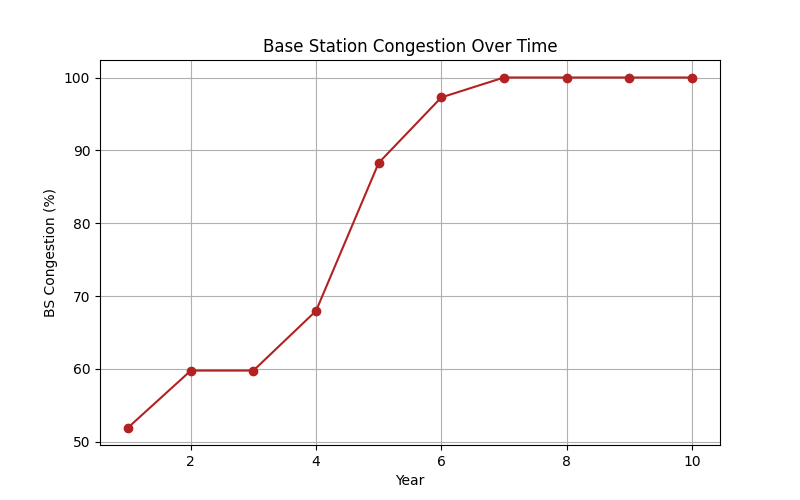
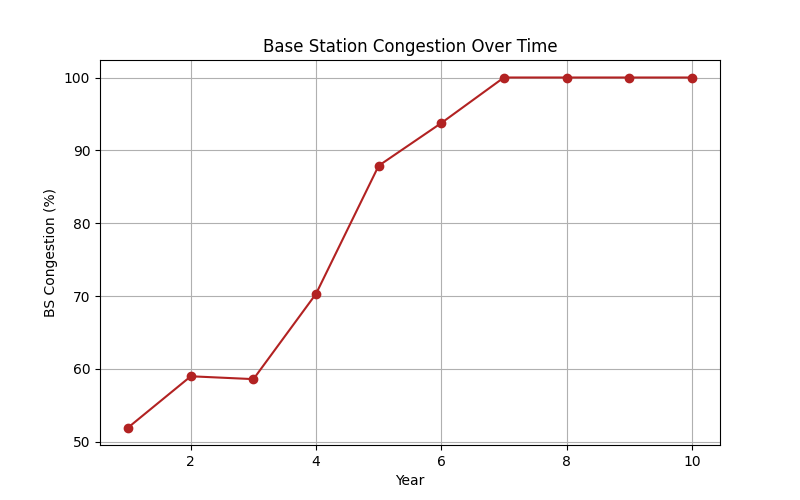
change w space only

diff --git a/networks_space.py b/networks_space.py
@@ -25,6 +25,8 @@ U6_END = 7.2
 
 demand_growth_rate = 1.0
 report_file_path = "report.log"
+OUTPUT_DIR_PATH = "outputs/space"
+os.makedirs(OUTPUT_DIR_PATH, exist_ok=True)
 
 total_num_hs = 0
 total_num_bs = 0
@@ -49,7 +51,7 @@ class UnitType(Enum):
     HS = 1
 
 class NetworkUnit:
-    def __init__(self, id, position, traffic_demand, unit_type, density, limit=None):
+    def __init__(self, id, position, traffic_demand, unit_type, density, region_id, limit=None):
         self.id = id
         self.position = position
         self.traffic_demand = traffic_demand # units = MHz
@@ -60,6 +62,7 @@ class NetworkUnit:
         self.density = density
         self.limit = limit
         self.bandwidth = 0
+        self.region_id = region_id
 
     """
     STEP 4: Updating traffic demand according to population density and time of day
@@ -146,15 +149,6 @@ class NetworkUnit:
                 assert required_bw > self.bandwidth, f"[NetworkUnit {self.id}][make_request]: Unit made a request to DB for more spectrum but required_bw <= self.bandwidth."
                 db_request_queue.put((self.id, required_bw - self.bandwidth)) 
 
-
-
-def total_frequency_allocated(unit):
-    total = 0.0
-    for band in unit.frequency_bands:
-        total += band[1] - band[0]
-    return total
-
-
 #--------------------------------- Debugging Functions ---------------------------------#
 # Calculate Euclidean distance between two units
 def calculate_distance(unit1, unit2):
@@ -163,7 +157,7 @@ def calculate_distance(unit1, unit2):
     return np.sqrt((x2 - x1)**2 + (y2 - y1)**2)
 
 # Make sure output directory exists
-os.makedirs("outputs", exist_ok=True)
+os.makedirs(OUTPUT_DIR_PATH, exist_ok=True)
 
 def plot_units(unit_type_to_plot, filename, db, D_threshold):
     units = [unit for unit in db.database.values() if unit.unit_type == unit_type_to_plot]
@@ -193,9 +187,10 @@ def plot_units(unit_type_to_plot, filename, db, D_threshold):
     plt.grid(True)
 
     # Save the figure
-    plt.savefig(f"outputs/{filename}.png")
+    plt.savefig(f"{OUTPUT_DIR_PATH}/{filename}.png")
     plt.close()
 #-----------------------------------------------------------------------------------#
+
 
 """
 STEP 1: Create dat "map"!
@@ -217,6 +212,8 @@ class Database:
         self.wifi_freq_range = (U6_START, ((U6_END-U6_START)*0.50 + U6_START))
         self.cellular_freq_range = (((U6_END-U6_START)*0.50 + U6_START), U6_END)
         self.request_queue = queue.Queue() 
+        self.region_database = {}
+        # region contains {region_id, pop_density, list of unit_ids, wifi_freq_range, cellular_freq_range}
 
     def update_ratios(self, snapshot):
         """
@@ -257,6 +254,12 @@ class Database:
             wifi_end = U6_START + (U6_END - U6_START) * (config.spectrum_split / 100)
             self.wifi_freq_range = (U6_START, wifi_end)
             self.cellular_freq_range = (wifi_end, U6_END) 
+    
+def assign_initial_ratios(num_hs, num_bs):
+    ratio_hs = num_hs/(num_hs+num_bs)
+    wifi_freq_range = (U6_START, ((U6_END-U6_START)*ratio_hs + U6_START))
+    cellular_freq_range = (((U6_END-U6_START)*ratio_hs + U6_START), U6_END)
+    return wifi_freq_range, cellular_freq_range
 
 """
 STEP 2: Placing BS and HS 
@@ -265,11 +268,13 @@ db = Database()
 unit_id = 0
 block_size = 10
 grid_size = 100
+region_id = 0
 
 for i in range(city_size[0]):
     for j in range(city_size[1]):
         pop_density = population_density[i, j]
         traffic_demand = 0
+
         # setting the number of hs and bs acc to density [TODO]
         if pop_density == 2:
             hs_count = 7  #100x more 
@@ -281,7 +286,9 @@ for i in range(city_size[0]):
             hs_count = 3  #3
             bs_count = 1  #1
 
+        units = set()
         coordinates = set()
+
         for _ in range (hs_count):
             x_pos = random.randint(j * block_size, (j + 1) * block_size - 1)
             y_pos = random.randint(i * block_size, (i + 1) * block_size - 1)
@@ -294,9 +301,9 @@ for i in range(city_size[0]):
             assert ((x_pos, y_pos) not in coordinates)
             coordinates.add((x_pos, y_pos))
 
-            db.database[unit_id] = NetworkUnit(unit_id, (x_pos, y_pos), traffic_demand, UnitType.HS, pop_density) 
+            db.database[unit_id] = NetworkUnit(unit_id, (x_pos, y_pos), traffic_demand, UnitType.HS, pop_density, region_id) 
+            units.add(unit_id)
             unit_id += 1
-
 
         for _ in range (bs_count):
             x_pos = random.randint(j * block_size, (j + 1) * block_size - 1)
@@ -310,8 +317,18 @@ for i in range(city_size[0]):
             assert ((x_pos, y_pos) not in coordinates)
             coordinates.add((x_pos, y_pos))
 
-            db.database[unit_id] = NetworkUnit(unit_id, (x_pos, y_pos), traffic_demand, UnitType.BS, pop_density) 
+            db.database[unit_id] = NetworkUnit(unit_id, (x_pos, y_pos), traffic_demand, UnitType.BS, pop_density, region_id) 
+            units.add(unit_id)
             unit_id += 1
+        
+        wifi_freq_range, cellular_freq_range = assign_initial_ratios(hs_count, bs_count)
+        db.region_database[region_id] = {
+            "pop_density": pop_density,
+            "units": units,
+            "wifi_freq_range": wifi_freq_range,
+            "cellular_freq_range": cellular_freq_range,
+        }
+        region_id += 1
 
 
 for u in db.database.values():
@@ -439,48 +456,51 @@ STEP 6: Allocate spectrum according to the rules for HS and BS based on distance
 # TODO: Swati
 def allocate_spectrum(unit, bandwidth):
     unit.congested = False
+    region_id = unit.region_id
+    wifi_freq_range = db.region_database[region_id]["wifi_freq_range"]
+    cellular_freq_range = db.region_database[region_id]["cellular_freq_range"]
 
     if len(group_dict[unit.id]) > 0:
         if unit.unit_type == UnitType.HS:
             groupID = unit.group_id
             total_freq_allocated = group_freq_dict[groupID]
 
-            if (bandwidth+total_freq_allocated) <= ((db.wifi_freq_range[1]-db.wifi_freq_range[0])*1000):
+            if (bandwidth+total_freq_allocated) <= ((wifi_freq_range[1]-wifi_freq_range[0])*1000):
                 unit.bandwidth = bandwidth
                 group_freq_dict[groupID] += bandwidth
 
             else: 
-                unit.bandwidth = bandwidth / (total_freq_allocated + bandwidth) * ((db.wifi_freq_range[1]-db.wifi_freq_range[0])*1000)  
+                unit.bandwidth = bandwidth / (total_freq_allocated + bandwidth) * ((wifi_freq_range[1]-wifi_freq_range[0])*1000)  
                 for member in group_members_dict[unit.group_id]:
                     if member == unit.id:
                         continue
                     member_unit = db.database[member]
-                    member_unit.bandwidth = member_unit.bandwidth / (total_freq_allocated + bandwidth) * ((db.wifi_freq_range[1]-db.wifi_freq_range[0])*1000)
+                    member_unit.bandwidth = member_unit.bandwidth / (total_freq_allocated + bandwidth) * ((wifi_freq_range[1]-wifi_freq_range[0])*1000)
 
         elif unit.unit_type == UnitType.BS:
             groupID = unit.group_id
             total_freq_allocated = group_freq_dict[groupID]
 
-            if (bandwidth+total_freq_allocated) <= ((db.cellular_freq_range[1]-db.cellular_freq_range[0])*1000):
+            if (bandwidth+total_freq_allocated) <= ((cellular_freq_range[1]-cellular_freq_range[0])*1000):
                 unit.bandwidth = bandwidth
                 group_freq_dict[groupID] += bandwidth
 
             else: 
-                unit.bandwidth = bandwidth / (total_freq_allocated + bandwidth) * ((db.cellular_freq_range[1]-db.cellular_freq_range[0])*1000)
+                unit.bandwidth = bandwidth / (total_freq_allocated + bandwidth) * ((cellular_freq_range[1]-cellular_freq_range[0])*1000)
                 # reallocating the other unit's bandwidths
                 for member in group_members_dict[unit.group_id]:
                     if member == unit.id:
                         continue
                     member_unit = db.database[member]
-                    member_unit.bandwidth = member_unit.bandwidth / (total_freq_allocated + bandwidth) * ((db.cellular_freq_range[1]-db.cellular_freq_range[0])*1000)
+                    member_unit.bandwidth = member_unit.bandwidth / (total_freq_allocated + bandwidth) * ((cellular_freq_range[1]-cellular_freq_range[0])*1000)
             
             
     else:
         if unit.unit_type == UnitType.HS:
-            unit.bandwidth = (db.wifi_freq_range[1]-db.wifi_freq_range[0])*1000
+            unit.bandwidth = (wifi_freq_range[1]-wifi_freq_range[0])*1000
         else:
-            unit.bandwidth = (db.cellular_freq_range[1]-db.cellular_freq_range[0])*1000
-        unit.limit = round((db.cellular_freq_range[1]-db.cellular_freq_range[0]), 3) if unit.unit_type == UnitType.BS else round((db.wifi_freq_range[1]-db.wifi_freq_range[0]), 3)
+            unit.bandwidth = (cellular_freq_range[1]-cellular_freq_range[0])*1000
+        unit.limit = round((cellular_freq_range[1]-cellular_freq_range[0]), 3) if unit.unit_type == UnitType.BS else round((wifi_freq_range[1]-wifi_freq_range[0]), 3)
 
     unit.congested = unit.bandwidth < unit.traffic_demand / 2
 
@@ -503,6 +523,20 @@ def print_database_state(db, group_dict):
     
     print("\n")
 
+def print_mini_database_state(db, group_dict):
+    header = f"\n\n\n{'Region ID':<5}{'ID':<5}{'Type':<10}{'Position':<15}{'Traffic Demand (Mbps)':<30}{'Bandwidth (MHz)':<20}{'Congested':<10}{'Density':<10}{'Group Members':<20}"
+    print(header)
+    print("-" * len(header))
+
+    for mini_db in db.region_database.values():
+        for unit_id in mini_db["units"]:
+            unit = db.database[unit_id]
+            group_str = ', '.join(map(str, group_dict.get(unit.id, [])))
+            
+            print(f"{unit.region_id:<5}{unit.id:<5}{unit.unit_type.name:<10}{str(unit.position):<15}{unit.traffic_demand:<30}"
+                f"{unit.bandwidth:<20.2f}{str(unit.congested):<10}{unit.density:<10}{group_str:<20}")
+        
+        print("\n")
 
 def get_snapshot_duration(snapshot):
     """
@@ -646,7 +680,7 @@ def generate_report(year, total_num_hs, total_num_bs):
             plt.legend()
             plt.grid(True, axis='y')
             plt.tight_layout()
-            # plt.savefig(f"outputs/{NUM_YEARS}_congestion_comparison_day1_bar.png")
+            # plt.savefig(f"{OUTPUT_DIR_PATH}/{NUM_YEARS}_congestion_comparison_day1_bar.png")
             plt.close()
 
             # === Plot 2: Spectrum Allocation (Stacked bar chart) ===
@@ -663,11 +697,60 @@ def generate_report(year, total_num_hs, total_num_bs):
             plt.legend()
             plt.grid(True, axis='y')
             plt.tight_layout()
-            plt.savefig(f"outputs/{NUM_YEARS}_bandwidth_comparison_day1_bar.png")
+            plt.savefig(f"{OUTPUT_DIR_PATH}/{NUM_YEARS}_bandwidth_comparison_day1_bar.png")
+            plt.close()
+
+            # === Plot: Spectrum Allocation (Stacked bar chart) for mini db ===
+            grouped_data = {0: [], 1: [], 2: []}
+
+            for region_id, mini_db in db.region_database.items():
+                pop_density = mini_db["pop_density"]
+                hs_bandwidth = mini_db["wifi_freq_range"][1] - mini_db["wifi_freq_range"][0]
+                bs_bandwidth = mini_db["cellular_freq_range"][1] - mini_db["cellular_freq_range"][0]
+                grouped_data[pop_density].append((region_id, hs_bandwidth, bs_bandwidth))
+
+            region_ids = []
+            hs_bandwidths = []
+            bs_bandwidths = []
+            density_labels = []
+
+            for density in sorted(grouped_data.keys()):
+                for region_id, hs_bw, bs_bw in grouped_data[density]:
+                    region_ids.append(region_id)
+                    hs_bandwidths.append(hs_bw)
+                    bs_bandwidths.append(bs_bw)
+                    density_labels.append(density)
+
+            x = list(range(len(region_ids)))
+
+            plt.figure(figsize=(30, 5))
+            plt.bar(x, hs_bandwidths, label='Wi-Fi (HS)', color='skyblue')
+            plt.bar(x, bs_bandwidths, bottom=hs_bandwidths, label='Cellular (BS)', color='salmon')
+            plt.xlabel("Region ID (Grouped by Population Density)")
+            plt.ylabel("Total Spectrum Allocated (MHz)")
+            plt.title("Spectrum Allocation Grouped by Population Density")
+
+            # Add vertical lines or shading to separate density groups
+            prev = 0
+            for density in sorted(grouped_data.keys()):
+                count = len(grouped_data[density])
+                if count == 0:
+                    continue
+                mid = prev + count / 2
+                plt.text(mid, max(hs_bandwidths) + max(bs_bandwidths) * 0.05, f"Density {density}", ha='center', fontsize=10, fontweight='bold')
+                if density != 0:
+                    plt.axvline(prev, color='gray', linestyle='--', linewidth=0.8)
+                prev += count
+
+            plt.xticks(x, region_ids, rotation=45)
+            plt.legend()
+            plt.grid(True, axis='y')
+            plt.tight_layout()
+            plt.savefig(f"{OUTPUT_DIR_PATH}/{NUM_YEARS}_bandwidth_comparison_day1_grouped_by_density.png")
             plt.close()
 
         if year == NUM_YEARS - 1:
-            os.makedirs("outputs", exist_ok=True)
+            os.makedirs(OUTPUT_DIR_PATH, exist_ok=True)
             years = list(range(1, NUM_YEARS + 1))
 
             # --- Over all (Over years) ---#
@@ -679,7 +762,7 @@ def generate_report(year, total_num_hs, total_num_bs):
             plt.ylabel("HS Congestion (%)")
             plt.title("Hotspot Congestion Over Time")
             plt.grid(True)
-            plt.savefig(f"outputs/{NUM_YEARS}_hs_congestion_plot.png")
+            plt.savefig(f"{OUTPUT_DIR_PATH}/{NUM_YEARS}_hs_congestion_plot.png")
             plt.close()
 
             # Plot 2: Base Station Congestion Over Time
@@ -689,7 +772,7 @@ def generate_report(year, total_num_hs, total_num_bs):
             plt.ylabel("BS Congestion (%)")
             plt.title("Base Station Congestion Over Time")
             plt.grid(True)
-            plt.savefig(f"outputs/{NUM_YEARS}_bs_congestion_plot.png")
+            plt.savefig(f"{OUTPUT_DIR_PATH}/{NUM_YEARS}_bs_congestion_plot.png")
             plt.close()
 
             # Plot 3: Wi-Fi Traffic Demand Met
@@ -699,7 +782,7 @@ def generate_report(year, total_num_hs, total_num_bs):
             plt.ylabel("Wi-Fi Traffic Demand Met (%)")
             plt.title("Wi-Fi Traffic Demand Satisfaction Over Time")
             plt.grid(True)
-            plt.savefig(f"outputs/{NUM_YEARS}_wifi_demand_met_plot.png")
+            plt.savefig(f"{OUTPUT_DIR_PATH}/{NUM_YEARS}_wifi_demand_met_plot.png")
             plt.close()
 
             # Plot 4: Cellular Traffic Demand Met
@@ -709,7 +792,7 @@ def generate_report(year, total_num_hs, total_num_bs):
             plt.ylabel("Cellular Traffic Demand Met (%)")
             plt.title("Cellular Traffic Demand Satisfaction Over Time")
             plt.grid(True)
-            plt.savefig(f"outputs/{NUM_YEARS}_cellular_demand_met_plot.png")
+            plt.savefig(f"{OUTPUT_DIR_PATH}/{NUM_YEARS}_cellular_demand_met_plot.png")
             plt.close()
 
 
@@ -729,7 +812,7 @@ def plot_yearly_congestion(congestion_dict, label_prefix):
     plt.title(f"{label_prefix} Congestion Over Time by Geographic Density")
     plt.legend()
     plt.grid(True)
-    plt.savefig(f"outputs/{NUM_YEARS}_{label_prefix.lower()}_density_congestion.png")
+    plt.savefig(f"{OUTPUT_DIR_PATH}/{NUM_YEARS}_{label_prefix.lower()}_density_congestion.png")
     plt.close()
 
 def plot_congestion_heatmap(congestion_dict, label_prefix):
@@ -748,7 +831,7 @@ def plot_congestion_heatmap(congestion_dict, label_prefix):
     plt.xlabel("Year")
     plt.ylabel("Geographic Density")
     plt.tight_layout()
-    plt.savefig(f"outputs/{NUM_YEARS}_{label_prefix.lower()}_congestion_heatmap.png")
+    plt.savefig(f"{OUTPUT_DIR_PATH}/{NUM_YEARS}_{label_prefix.lower()}_congestion_heatmap.png")
     plt.close()
 
 import matplotlib.pyplot as plt
@@ -804,7 +887,7 @@ def animate_congestion(db_snapshots, unit_type_to_plot, filename, city_size, pop
         ax.set_title(f"{unit_type_to_plot.name} Congestion - Year {frame + 1}")
 
     ani = animation.FuncAnimation(fig, update, frames=len(db_snapshots), repeat=False)
-    ani.save(f"outputs/{filename}.gif", writer="pillow", fps=1)
+    ani.save(f"{OUTPUT_DIR_PATH}/{filename}.gif", writer="pillow", fps=1)
     plt.close()
 
 """
@@ -881,7 +964,7 @@ def simulate_dynamic_allocation(demand_growth_rate):
 
                     allocate_spectrum(unit, bandwidth)
 
-                db.update_ratios(snapshot)
+                # db.update_ratios(snapshot)
 
                 daily_snapshot_stats["hs_congestion"][snapshot].append(hs_congested / total_num_hs * 100)
                 daily_snapshot_stats["bs_congestion"][snapshot].append(bs_congested / total_num_bs * 100)
@@ -901,6 +984,7 @@ def simulate_dynamic_allocation(demand_growth_rate):
            
         print(f"\nDatabase after Year {year + 1}, Day {day + 1}:\n")
         print_database_state(db, group_dict)
+        print_mini_database_state(db, group_dict)
         demand_growth_rate *= 1.5
         
         generate_report(year, total_num_hs, total_num_bs)
